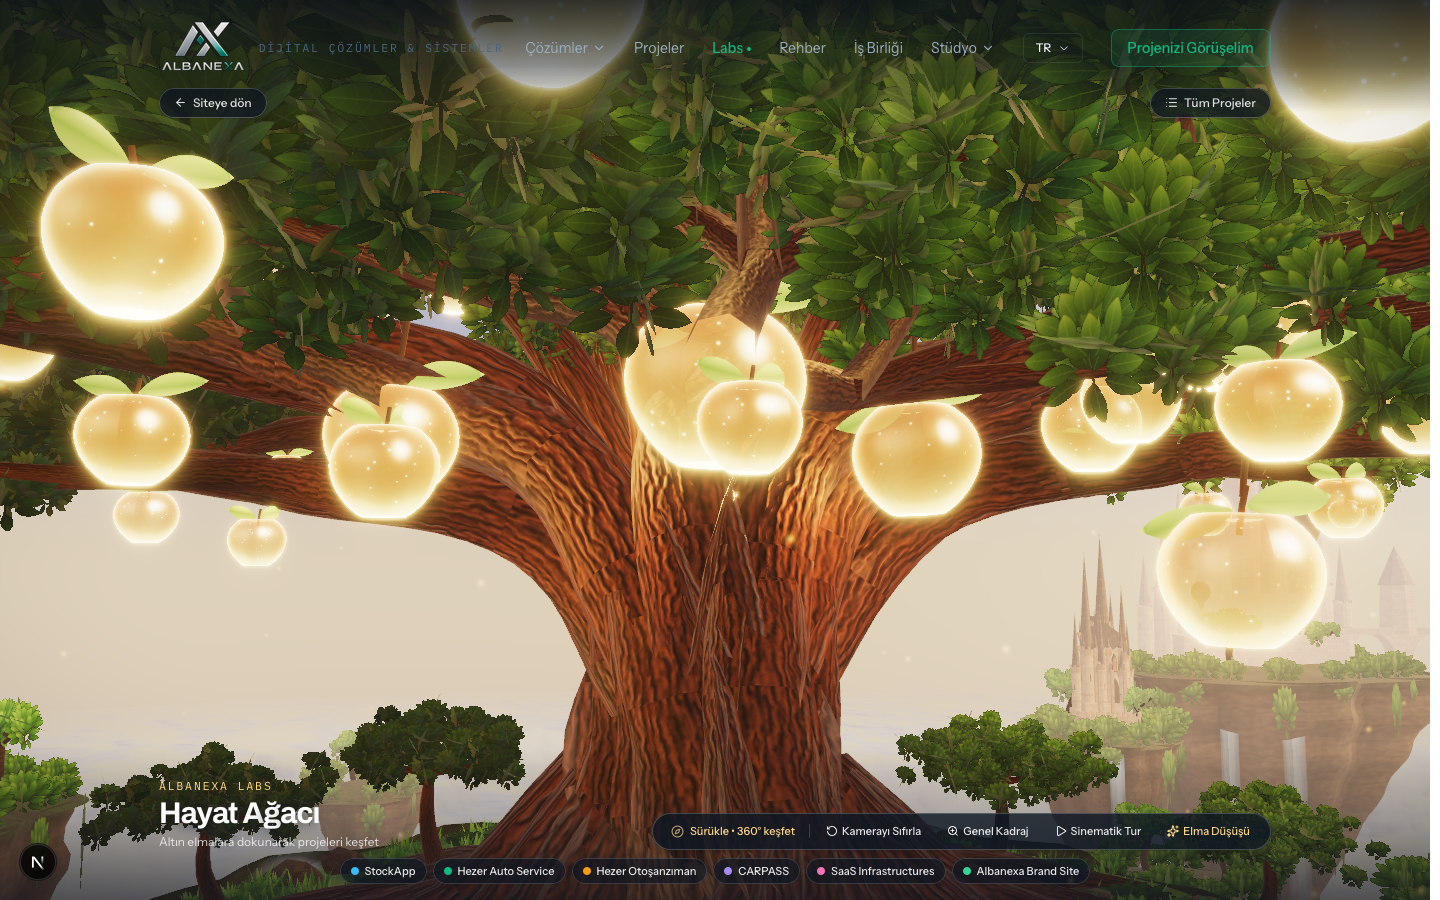
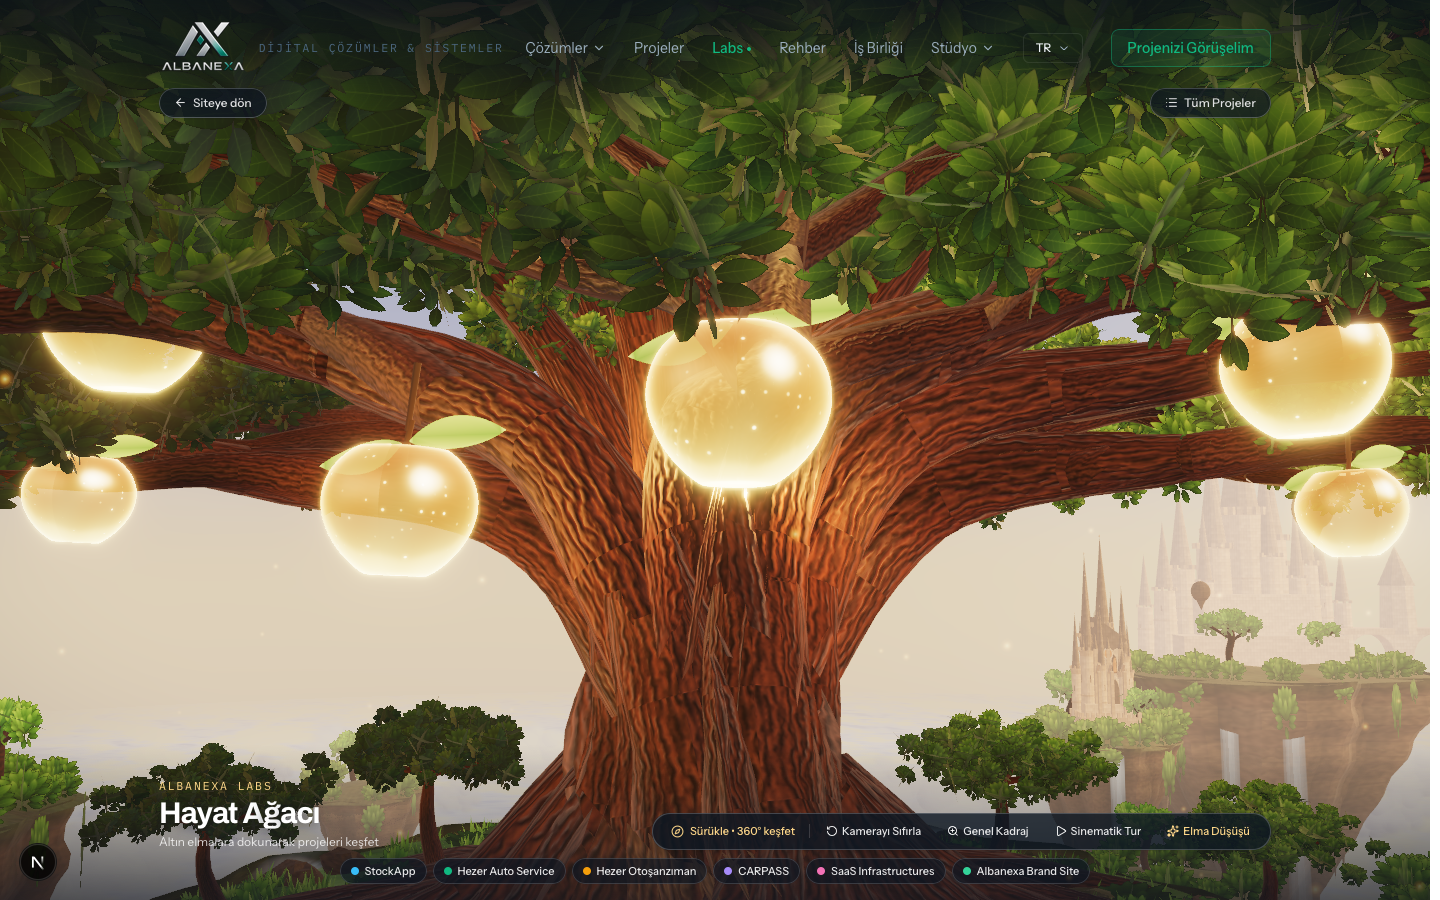
feat(labs): one apple per project on the Tree of Life
Remove ~70 decorative apples and their halos so the tree carries exactly as
many apples as published projects; respread the first six apple slots below
the front canopy skirt of the vase-form tree so each is visible.

diff --git a/components/labs/scene/TreeOfLife.tsx b/components/labs/scene/TreeOfLife.tsx
@@ -4,12 +4,7 @@ import { useMemo, useRef } from "react";
 import { useFrame } from "@react-three/fiber";
 import * as THREE from "three";
 import { mergeGeometries } from "three/examples/jsm/utils/BufferGeometryUtils.js";
-import { getAppleGlowTexture, getBarkPBR, getLeafSprigPBR } from "@/lib/labs/pbrTextures";
-import {
-  CRYSTAL_APPLE_FRAGMENT,
-  CRYSTAL_APPLE_VERTEX,
-  getSculptedAppleGeometries,
-} from "./Apple";
+import { getBarkPBR, getLeafSprigPBR } from "@/lib/labs/pbrTextures";
 
 type Quality = "high" | "low";
 
@@ -161,7 +156,6 @@ function buildHeroTreeStructure(quality: Quality) {
   const rand = mulberry32(2026);
   const parts: THREE.BufferGeometry[] = [];
   const leafCenters: { pos: THREE.Vector3; scale: number; tier: number }[] = [];
-  const decorativeApples: { pos: THREE.Vector3; scale: number }[] = [];
 
   const segScale = quality === "high" ? 1 : 0.65;
 
@@ -334,12 +328,6 @@ function buildHeroTreeStructure(quality: Quality) {
       scale: 0.62,
       tier: 1,
     });
-    // Apples on the upper/front dome too, not only along the lower canopy skirt
-    const outward = new THREE.Vector3(Math.cos(baseAngle), 0, Math.sin(baseAngle));
-    decorativeApples.push({
-      pos: p1.clone().add(outward.multiplyScalar(1.15)).add(new THREE.Vector3(0, 1.45, 0)),
-      scale: 0.5 + rand() * 0.25,
-    });
 
     const secCount = 3;
     for (let s = 0; s < secCount; s++) {
@@ -375,17 +363,6 @@ function buildHeroTreeStructure(quality: Quality) {
         tier: 1,
       });
 
-      // Decorative translucent crystal golden apples hanging beneath secondary branches (matching 2.4s & 4.8s)
-      if ((i + s) % 2 === 0) {
-        decorativeApples.push({
-          pos: new THREE.Vector3(
-            sMid.x + (rand() - 0.5) * 0.28,
-            sMid.y - 0.34 - rand() * 0.14,
-            sMid.z + (rand() - 0.5) * 0.28,
-          ),
-          scale: 0.62 + rand() * 0.26,
-        });
-      }
 
       for (let t = 0; t < 3; t++) {
         const tAngle = secAngle + (t - 1) * 0.4 + (rand() - 0.5) * 0.16;
@@ -411,20 +388,6 @@ function buildHeroTreeStructure(quality: Quality) {
           scale: 0.82,
           tier: 2,
         });
-
-        // Glowing golden apples sit on the OUTER canopy shell (reference 0.0s–4.8s shows dozens
-        // studding the crown surface), pushed just outside the leaf clusters so they read.
-        if ((i + s + t) % 3 === 0) {
-          const out = new THREE.Vector3(tEnd.x, 0, tEnd.z).normalize();
-          decorativeApples.push({
-            pos: new THREE.Vector3(
-              tEnd.x + out.x * (0.42 + rand() * 0.2),
-              tEnd.y - 0.06 + (rand() - 0.5) * 0.3,
-              tEnd.z + out.z * (0.42 + rand() * 0.2),
-            ),
-            scale: 0.5 + rand() * 0.32,
-          });
-        }
       }
     }
   }
@@ -461,10 +424,6 @@ function buildHeroTreeStructure(quality: Quality) {
       pos: pTop.clone().add(new THREE.Vector3(0, 0.22, 0)),
       scale: 1.05,
       tier: 3,
-    });
-    decorativeApples.push({
-      pos: new THREE.Vector3(pTop.x * 1.12, pTop.y + 0.32, pTop.z * 1.12),
-      scale: 0.5 + rand() * 0.22,
     });
   }
   // Rounded central apex dome billow clusters
@@ -516,7 +475,7 @@ function buildHeroTreeStructure(quality: Quality) {
 
   const branchGeo = mergeGeometries(parts, false)!;
   parts.forEach((g) => g.dispose());
-  return { branchGeo, leafCenters, decorativeApples };
+  return { branchGeo, leafCenters };
 }
 
 /**
@@ -557,13 +516,12 @@ function build3DLeafClusterGeometry(): THREE.BufferGeometry {
 }
 
 export default function TreeOfLife({ quality = "high" }: { quality?: Quality }) {
-  const { branchGeo, leafCenters, decorativeApples } = useMemo(
+  const { branchGeo, leafCenters } = useMemo(
     () => buildHeroTreeStructure(quality),
     [quality],
   );
   const barkPBR = useMemo(() => getBarkPBR(), []);
   const leafPBR = useMemo(() => getLeafSprigPBR(), []);
-  const { appleGeo, twinCrownGeo, stemGeo } = useMemo(() => getSculptedAppleGeometries(), []);
 
   // More, smaller sprigs → finer leaf texture & a bumpier crown silhouette
   const sprigsPerCenter = quality === "high" ? 20 : 9;
@@ -644,78 +602,11 @@ export default function TreeOfLife({ quality = "high" }: { quality?: Quality }) 
     return mesh;
   }, [leafCenters, leafPBR, sprigsPerCenter, sprigScale, totalSprigs]);
 
-  // Decorative smaller translucent crystal golden apples + twin arching leaves high/deep in the boughs (matching 2.4s & 4.8s)
-  // Uses the EXACT same CRYSTAL_APPLE_VERTEX & CRYSTAL_APPLE_FRAGMENT shader as hero apples (ZERO flat orange spheres!)
-  const decoUniforms = useMemo(
-    () => ({
-      uTime: { value: 0 },
-      uIntensity: { value: 1.35 },
-      uDimmed: { value: 0.0 },
-    }),
-    [],
-  );
-
-  const { decoAppleMesh, decoLeafMesh, decoStemMesh } = useMemo(() => {
-    const mat = new THREE.ShaderMaterial({
-      vertexShader: CRYSTAL_APPLE_VERTEX,
-      fragmentShader: CRYSTAL_APPLE_FRAGMENT,
-      uniforms: decoUniforms,
-      transparent: true,
-    });
-    const aMesh = new THREE.InstancedMesh(appleGeo, mat, decorativeApples.length);
-
-    const lMat = new THREE.MeshStandardMaterial({
-      vertexColors: true,
-      emissive: "#52761e",
-      emissiveIntensity: 0.4,
-      roughness: 0.48,
-      side: THREE.DoubleSide,
-    });
-    const lMesh = new THREE.InstancedMesh(twinCrownGeo, lMat, decorativeApples.length);
-
-    const sMat = new THREE.MeshStandardMaterial({
-      color: "#5d4024",
-      roughness: 0.88,
-    });
-    const stMesh = new THREE.InstancedMesh(stemGeo, sMat, decorativeApples.length);
-
-    const dummy = new THREE.Object3D();
-    decorativeApples.forEach((item, i) => {
-      dummy.position.copy(item.pos);
-      dummy.rotation.set(0, (i * 1.7) % (Math.PI * 2), 0);
-      // Background fruit stays smaller than the clickable project apples (reference proportions)
-      dummy.scale.setScalar(item.scale * 0.85);
-      dummy.updateMatrix();
-      aMesh.setMatrixAt(i, dummy.matrix);
-      lMesh.setMatrixAt(i, dummy.matrix);
-      stMesh.setMatrixAt(i, dummy.matrix);
-    });
-    aMesh.instanceMatrix.needsUpdate = true;
-    lMesh.instanceMatrix.needsUpdate = true;
-    stMesh.instanceMatrix.needsUpdate = true;
-    return { decoAppleMesh: aMesh, decoLeafMesh: lMesh, decoStemMesh: stMesh };
-  }, [decorativeApples, appleGeo, twinCrownGeo, stemGeo, decoUniforms]);
-
-  // Soft warm light halo per apple: the reference apples visibly light the leaves around them
-  const glowTex = useMemo(() => getAppleGlowTexture(), []);
-  const appleHaloGeo = useMemo(() => {
-    const pos = new Float32Array(decorativeApples.length * 3);
-    decorativeApples.forEach((a, i) => {
-      pos[i * 3] = a.pos.x;
-      pos[i * 3 + 1] = a.pos.y;
-      pos[i * 3 + 2] = a.pos.z;
-    });
-    const g = new THREE.BufferGeometry();
-    g.setAttribute("position", new THREE.BufferAttribute(pos, 3));
-    return g;
-  }, [decorativeApples]);
-
   const canopyGroup = useRef<THREE.Group>(null);
   useFrame((state) => {
     const g = canopyGroup.current;
     if (!g) return;
     const t = state.clock.elapsedTime;
-    decoUniforms.uTime.value = t;
     // Gentle multi-frequency breeze on the foliage crown while roots stay anchored on the island
     g.rotation.z = Math.sin(t * 0.55) * 0.008 + Math.sin(t * 1.25) * 0.0035;
     g.rotation.x = Math.cos(t * 0.45) * 0.0055;
@@ -736,23 +627,9 @@ export default function TreeOfLife({ quality = "high" }: { quality?: Quality }) 
         />
       </mesh>
 
-      {/* Wind-swaying 3D pointed-leaf canopy & background crystal golden fruits */}
+      {/* Wind-swaying 3D pointed-leaf canopy. Fruit = one interactive apple per project (Apple.tsx) */}
       <group ref={canopyGroup}>
         <primitive object={foliageMesh} />
-        <primitive object={decoAppleMesh} />
-        <primitive object={decoStemMesh} />
-        <primitive object={decoLeafMesh} />
-        <points geometry={appleHaloGeo}>
-          <pointsMaterial
-            map={glowTex}
-            color="#ffb84a"
-            size={0.95}
-            transparent
-            opacity={0.38}
-            blending={THREE.AdditiveBlending}
-            depthWrite={false}
-          />
-        </points>
       </group>
     </group>
   );

diff --git a/lib/labs/anchors.ts b/lib/labs/anchors.ts
@@ -36,18 +36,20 @@ const HERO_BOUGH_SLOTS: {
   normal: [number, number, number];
   scale: number;
 }[] = [
-  // 1. Center-front hero apple hanging beneath the central fork (matches 4.8s & 5.6s central hero apple!)
-  { position: [0.06, 3.52, 3.25], normal: [0.02, -0.15, 0.98], scale: 1.18 },
-  // 2. Upper-left foreground bough (matches 4.8s upper-left large apple)
-  { position: [-1.85, 4.18, 2.85], normal: [-0.55, 0.12, 0.82], scale: 1.12 },
-  // 3. Upper-right foreground bough (matches 4.8s right large hero apple)
-  { position: [2.15, 3.88, 2.95], normal: [0.62, 0.05, 0.78], scale: 1.16 },
-  // 4. Mid-left bough (matches 4.8s mid-left apple)
-  { position: [-1.42, 3.35, 2.55], normal: [-0.52, -0.12, 0.84], scale: 0.98 },
-  // 5. Mid-right inner bough (matches 4.8s mid-right apple to the right of center)
-  { position: [0.95, 3.32, 2.48], normal: [0.42, -0.14, 0.89], scale: 0.96 },
-  // 6. Lower-right foreground bough (matches 4.8s lower-right apple)
-  { position: [2.25, 2.75, 2.85], normal: [0.68, -0.22, 0.7], scale: 1.08 },
+  // Slots 1–6 hang just below the front canopy skirt of the vase-form tree, spread so every
+  // project apple is visible (none buried in foliage or hidden behind the trunk) from the hero view.
+  // 1. Center-front, under the central fork
+  { position: [0.15, 3.45, 3.35], normal: [0.04, -0.15, 0.99], scale: 1.18 },
+  // 2. Upper-left bough
+  { position: [-2.55, 3.85, 2.75], normal: [-0.68, 0.05, 0.73], scale: 1.12 },
+  // 3. Upper-right bough
+  { position: [2.65, 3.7, 2.6], normal: [0.7, 0.02, 0.71], scale: 1.14 },
+  // 4. Left flank, lower
+  { position: [-3.75, 3.2, 0.9], normal: [-0.95, -0.12, 0.28], scale: 1.0 },
+  // 5. Right flank, lower
+  { position: [3.8, 3.15, 0.75], normal: [0.96, -0.12, 0.25], scale: 1.0 },
+  // 6. Mid-left inner bough, between 1 and 2
+  { position: [-1.25, 3.05, 2.95], normal: [-0.4, -0.2, 0.89], scale: 1.04 },
   // 7. Back-right bough (visible at 90°-180° orbit)
   { position: [2.42, 3.35, -2.38], normal: [0.69, -0.14, -0.71], scale: 1.05 },
   // 8. Back-left bough (visible at 180°-270° orbit)
